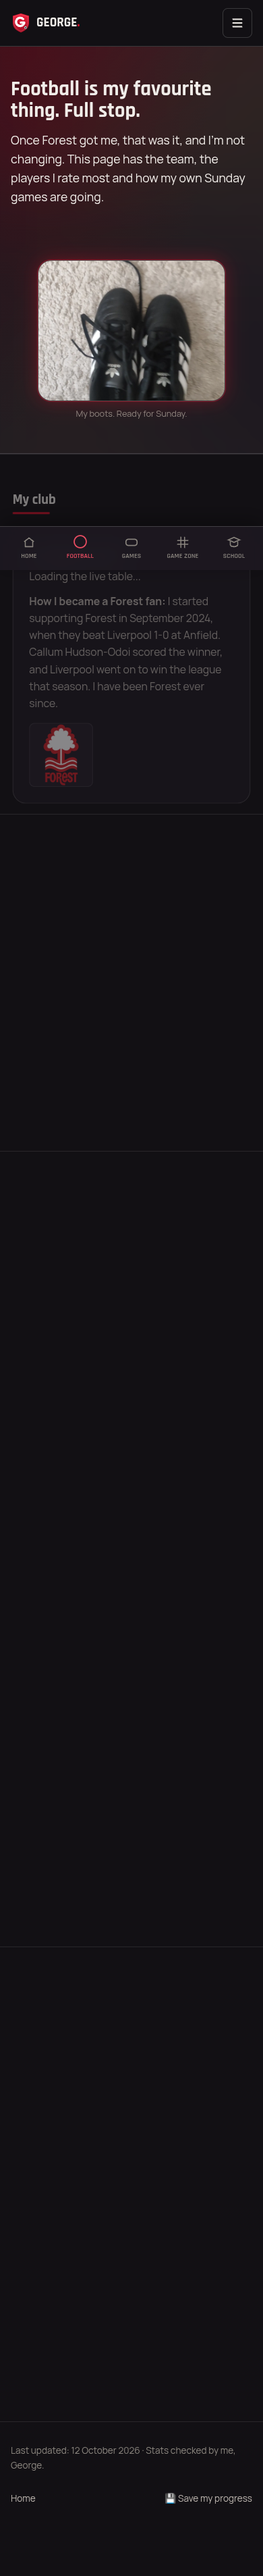
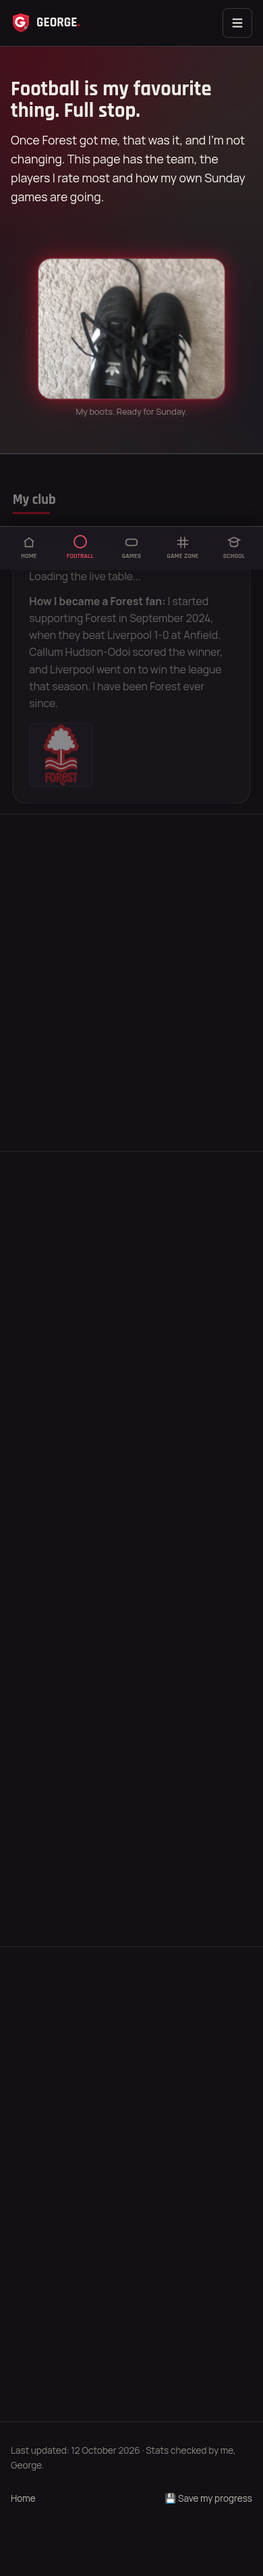
Photo motion: floating hero photo, lift-and-tilt gallery photos, develop-on-scroll, badge spin (#101)
Claude-Session: https://claude.ai/code/session_017eYJk2dewQsckke2BZCoDP

diff --git a/css/styles.css b/css/styles.css
@@ -861,3 +861,29 @@ details.predict-toggle[open] summary{ margin-bottom: var(--s3); }
 @keyframes mo-underline { from { transform: scaleX(0); } }
 @keyframes mo-wiggle { 0%, 100% { rotate: 0deg; scale: 1; } 25% { rotate: -10deg; scale: 1.1; } 55% { rotate: 8deg; scale: 1.1; } 80% { rotate: -4deg; } }
 @keyframes mo-bump { 0%, 100% { scale: 1; } 40% { scale: 1.12; } }
+
+/* ---- Photo motion ---- */
+@media (prefers-reduced-motion: no-preference) {
+  /* The big photo at the top of a page floats and glows softly. (It keeps its scroll-in animation too.) */
+  html.js .hero-photo.reveal { animation-name: sd-rise, mo-float; animation-timeline: view(), auto; animation-range: entry 0% entry 60%, normal; animation-duration: auto, 6s; animation-timing-function: linear, ease-in-out; animation-iteration-count: 1, infinite; animation-fill-mode: both, none; }
+  .hero-photo { transition: scale 0.3s ease, rotate 0.3s ease; }
+  .hero-photo:hover { scale: 1.04; rotate: -1deg; }
+  /* Gallery photos lift and tilt a little when you point at them. */
+  .gallery-item img, .feature-photo img { transition: translate 0.3s cubic-bezier(.2,.8,.2,1), rotate 0.3s ease, box-shadow 0.3s ease, filter 0.3s ease; }
+  .gallery-item:hover img { translate: 0 -6px; box-shadow: 0 14px 30px rgba(0,0,0,0.45); }
+  .gallery-item:nth-child(odd):hover img { rotate: -1.2deg; }
+  .gallery-item:nth-child(even):hover img { rotate: 1.2deg; }
+  .feature-photo:hover img { translate: 0 -5px; }
+  /* The dog photo already has a frame that clips it, so it can zoom inside. */
+  .dog-photo img { transition: scale 0.45s cubic-bezier(.2,.8,.2,1); }
+  .dog-photo:hover img { scale: 1.08; }
+  /* Gallery photos "develop" from dull and blurry to full colour as they scroll in. */
+  @supports (animation-timeline: view()) {
+    .gallery-item img { animation: mo-develop linear both; animation-timeline: view(); animation-range: entry 5% entry 85%; }
+  }
+  /* The club badge does a full spin when you point at it. */
+  img[alt*="club badge"] { transition: rotate 0.6s cubic-bezier(.3,1.6,.5,1), scale 0.3s ease; }
+  img[alt*="club badge"]:hover { rotate: 360deg; scale: 1.12; }
+}
+@keyframes mo-float { 0%, 100% { translate: 0 0; filter: drop-shadow(0 0 10px rgba(225,16,44,0.15)); } 50% { translate: 0 -7px; filter: drop-shadow(0 6px 22px rgba(225,16,44,0.38)); } }
+@keyframes mo-develop { from { filter: grayscale(1) blur(5px) brightness(0.7); } to { filter: none; } }
